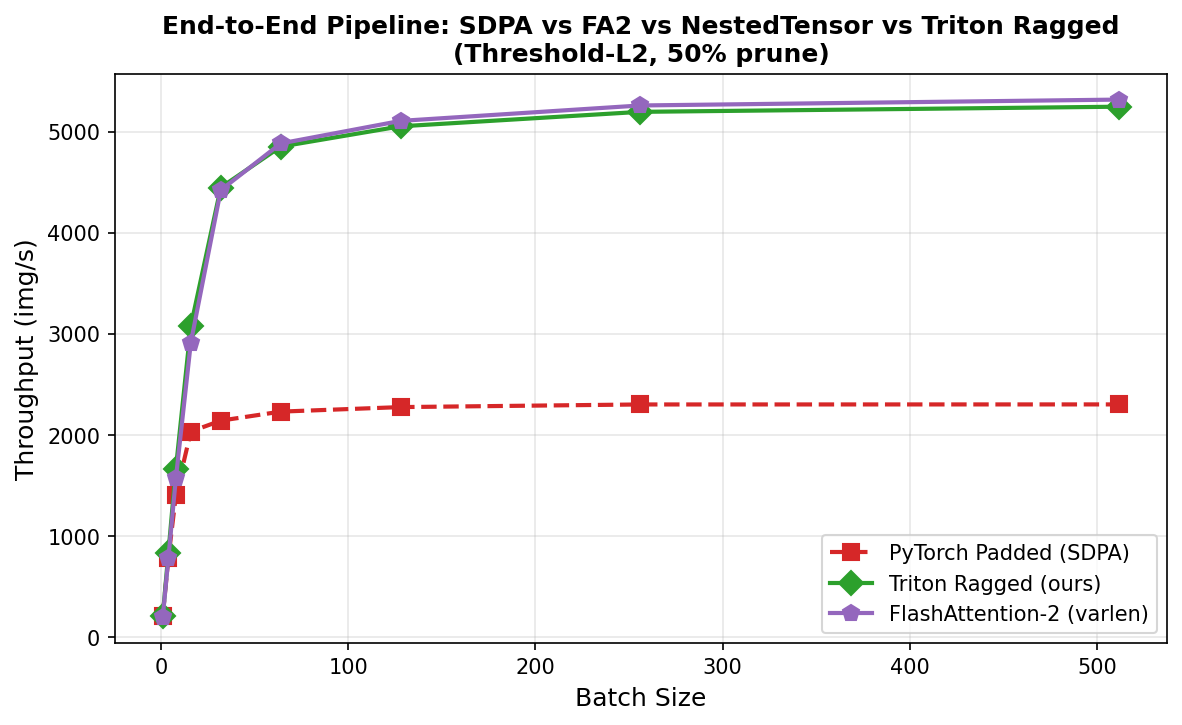
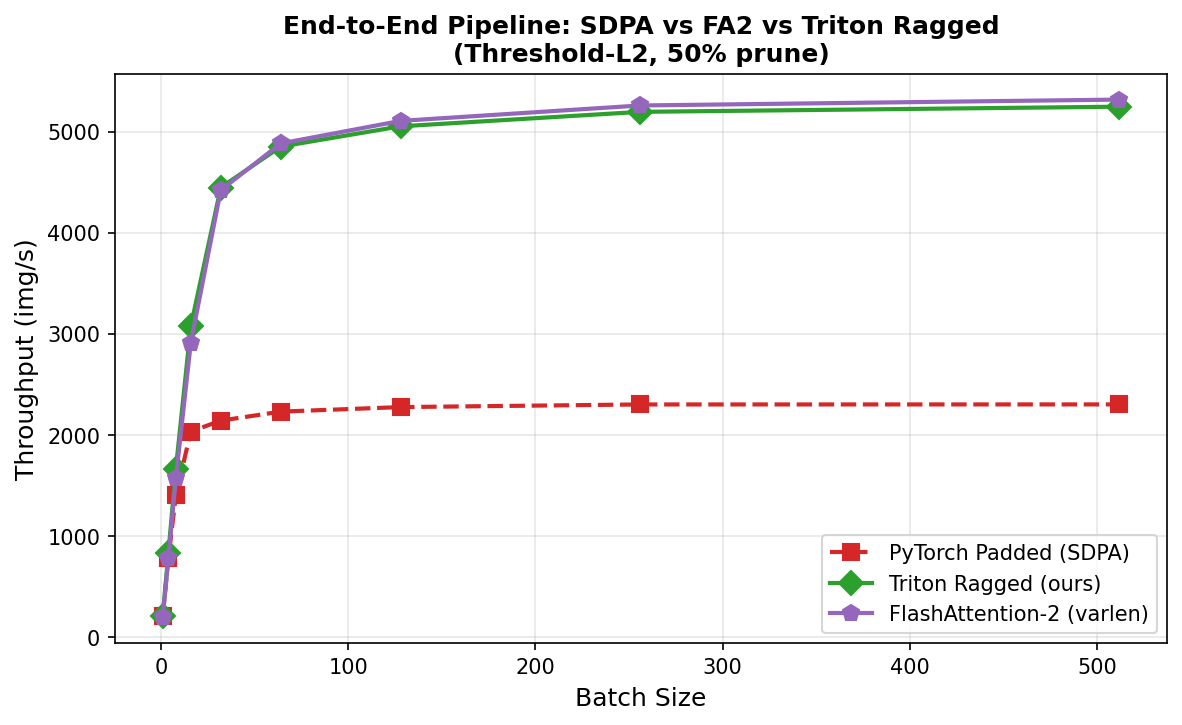
Remove stray NestedTensor mentions, fix path issues

Changed region(s): [[0.1218, 0.0, 0.9442, 0.0607]]

diff --git a/paper.tex b/paper.tex
@@ -501,7 +501,7 @@ ATS~\cite{fayyaz2022ats} & 0.57 & 0.57 & \textbf{1.14} & \textbf{1.65} \\
 
 \begin{figure}[t]
   \centering
-  \includegraphics[width=\linewidth]{figures/A100/bench6_pipeline_comparison_A100.png}
+  \includegraphics[width=\linewidth]{/home/saifmb0/Desktop/RA - AAU/sparse_vits/results/A100_run_2/bench6_pipeline_comparison.png}
   \caption{%
     \textbf{End-to-end inference throughput} (images/s) at 50\%
     pruning, DeiT-Base.
